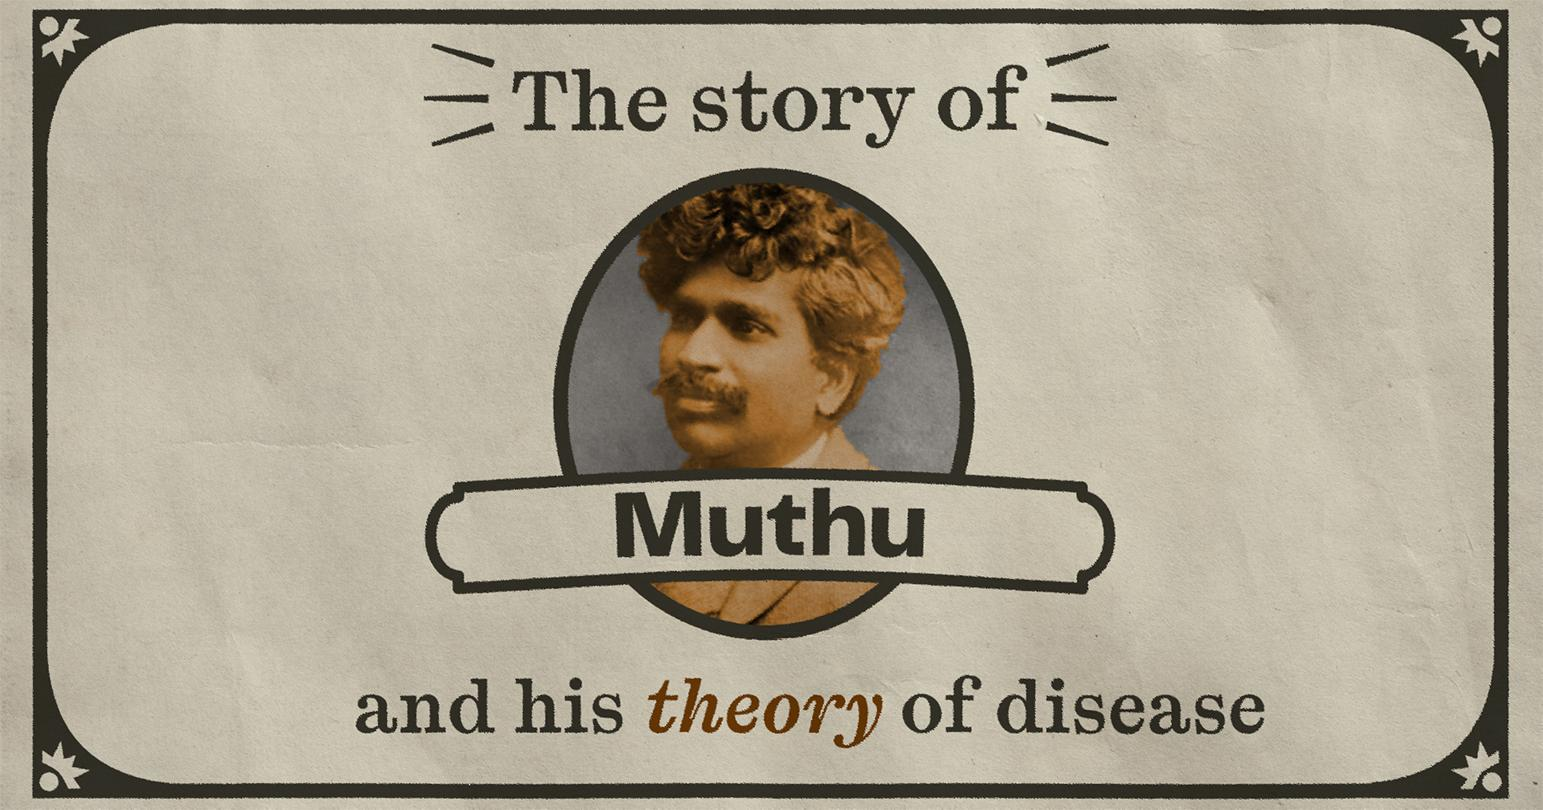
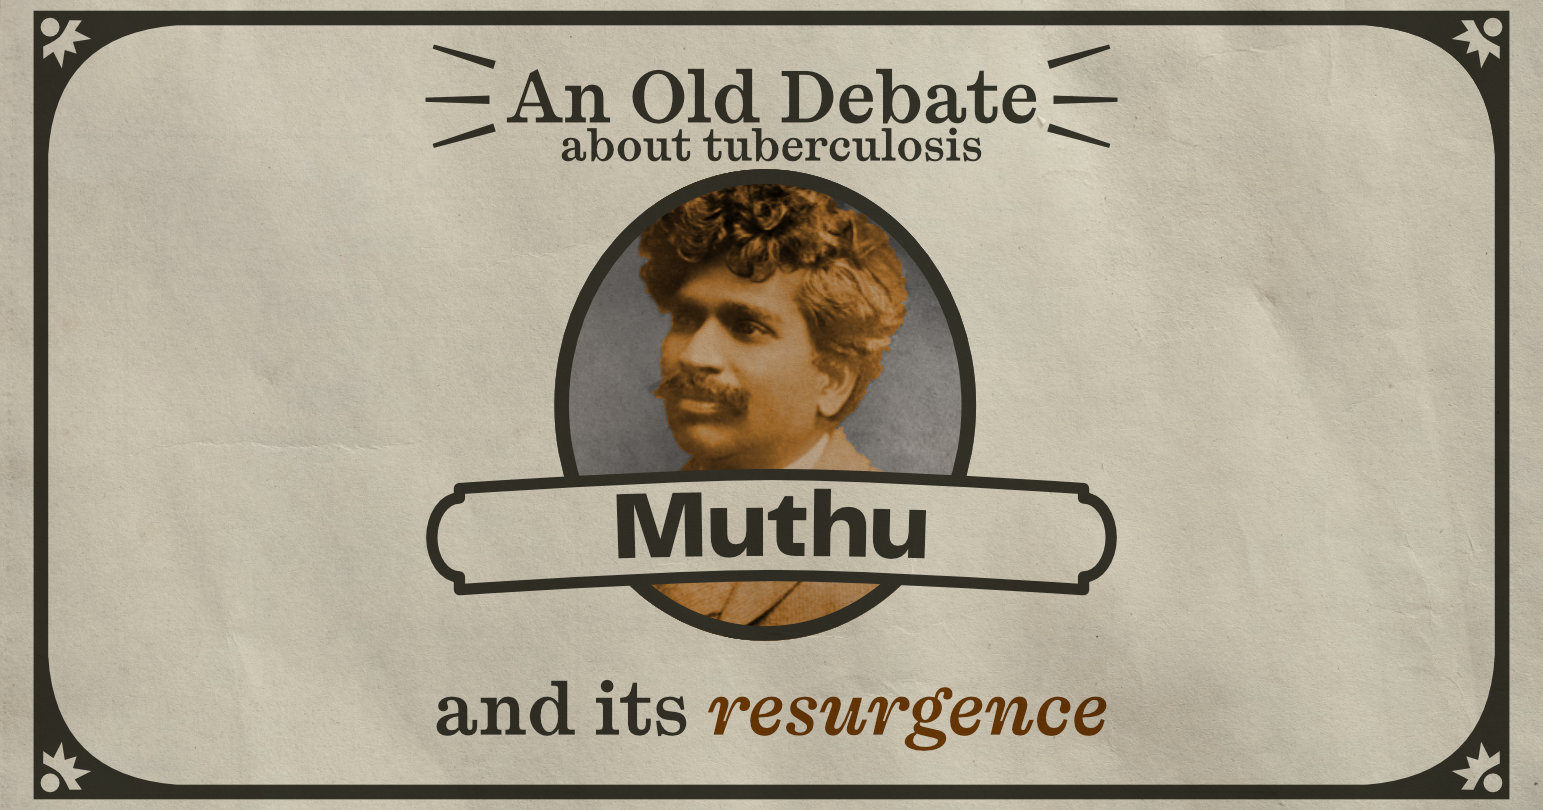
feat: finalize update

diff --git a/posts/muthu.html b/posts/muthu.html
@@ -27,7 +27,7 @@
 	<script src="../assets/muthu/lottie.js" type="text/javascript"></script>
 	<script src="./muthu.js" defer></script>
 	<meta property="og:title"
-		content="Crossroads to convergence: How 1900s theories about tuberculosis relate to today | Theories of TB" />
+		content="An Old Debate: An old 1900s debate about tuberculosis and its resurgence | Theories of TB" />
 	<meta property="og:description" content="" />
 
 	<!-- <meta property="og:image" content="https://quinn-is.a-good.dev/assets/muthu/preview.jpg" /> -->
@@ -58,10 +58,10 @@
 			</section>
 			<br>
 			<section id="main">
-				<h2>Crossroads to convergence</h2>
+				<h2>An Old Debate</h2>
 				<div class="subheading">
 					<hr>
-					<span>How 1900s theories about tuberculosis relate to today</span>
+					<span>An old 1900s debate about tuberculosis and its resurgence</span>
 					<hr>
 				</div>
 				<div class="split">
@@ -528,7 +528,7 @@
 						where Muthu didn’t (and in many ways couldn’t): we see it in a lack of
 						access to tuberculosis drugs (which requires an understanding of the
 						disease as a symptom of our social world and biological world, something
-						Muthu wouldn’t accept), we see it in a lack of research and funding. In
+						Muthu wouldn’t accept), we see it in a lack of research and funding, preventing people from being able to treat some forms of tuberculosis. In
 						many ways, the debate never ended.
 					</p>
 				</div>
